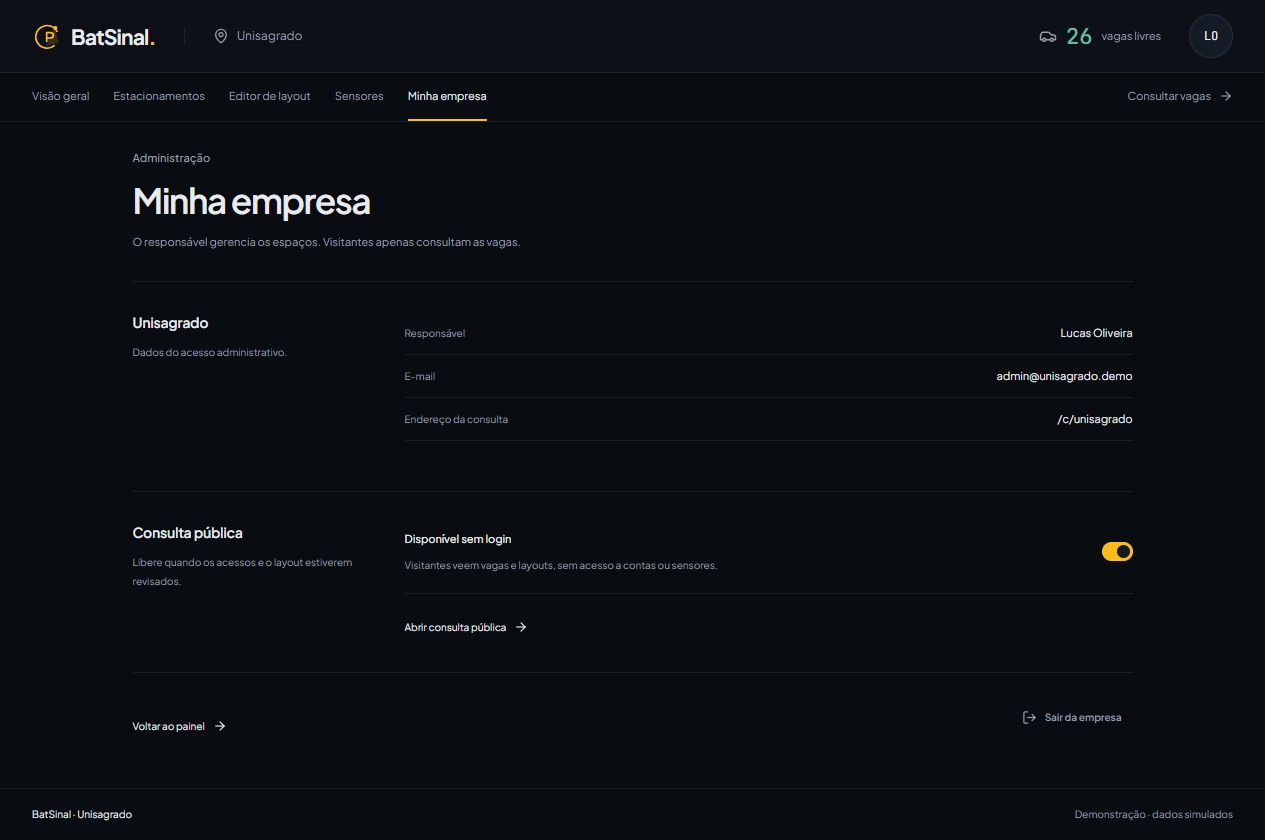
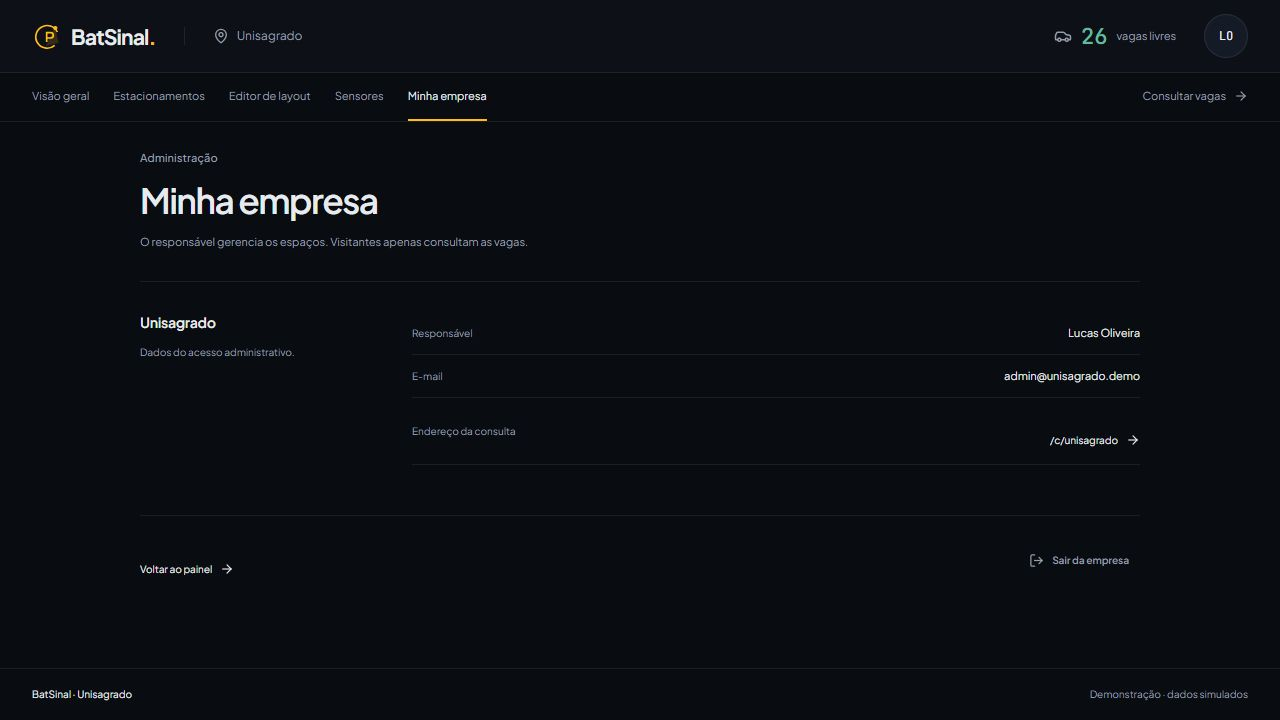
fix: manter consulta de vagas sempre publica

diff --git a/frontend/src/pages/empresa/CompanyPage.tsx b/frontend/src/pages/empresa/CompanyPage.tsx
@@ -1,39 +1,14 @@
-import { useState } from 'react';
 import { Link } from 'react-router-dom';
-import { useQueryClient } from '@tanstack/react-query';
 import { ArrowRight, LogOut } from 'lucide-react';
 import { useAuth } from '../../features/auth/AuthContext';
 import { useCompany } from '../../features/estacionamentos/queries';
-import { api, json } from '../../lib/api';
-import { mensagemErro } from '../../lib/utils';
-import { Button, ErrorState, Loading, Switch } from '../../components/ui';
-import { toast } from 'sonner';
-import type { Empresa } from '../../types';
+import { Button, ErrorState, Loading } from '../../components/ui';
 
 export function CompanyPage() {
   const { user, logout } = useAuth();
   const company = useCompany();
-  const client = useQueryClient();
-  const [saving, setSaving] = useState(false);
   if (company.isPending) return <Loading />;
   if (company.isError) return <ErrorState retry={() => void company.refetch()} />;
-  async function publish(value: boolean) {
-    setSaving(true);
-    try {
-      const result = await api<Empresa>('/empresa', {
-        method: 'PUT',
-        body: json({ publicado: value }),
-      });
-      client.setQueryData(['empresa', user?.empresaId], result);
-      await client.invalidateQueries({ queryKey: ['campi-publicos'] });
-      await client.invalidateQueries({ queryKey: ['estacionamentos'] });
-      toast.success(value ? 'Consulta pública liberada.' : 'Consulta pública fechada.');
-    } catch (error) {
-      toast.error(mensagemErro(error));
-    } finally {
-      setSaving(false);
-    }
-  }
   return (
     <div className="company-page">
       <div className="page-heading">
@@ -59,36 +34,13 @@ export function CompanyPage() {
           </div>
           <div>
             <dt>Endereço da consulta</dt>
-            <dd>/c/{company.data.slug}</dd>
+            <dd>
+              <Link className="text-link" to={`/c/${company.data.slug}`}>
+                /c/{company.data.slug} <ArrowRight size={14} />
+              </Link>
+            </dd>
           </div>
         </dl>
-      </section>
-      <section className="profile-section">
-        <div className="profile-section-heading">
-          <h2>Consulta pública</h2>
-          <p>Libere quando os acessos e o layout estiverem revisados.</p>
-        </div>
-        <div className="profile-section-body">
-          <div className="preference-row">
-            <div>
-              <strong>
-                {company.data.publicado ? 'Disponível sem login' : 'Consulta fechada'}
-              </strong>
-              <p>Visitantes veem vagas e layouts, sem acesso a contas ou sensores.</p>
-            </div>
-            <Switch
-              checked={company.data.publicado}
-              disabled={saving}
-              onCheckedChange={(value) => void publish(value)}
-              label="Publicar consulta de vagas"
-            />
-          </div>
-          {company.data.publicado && (
-            <Link className="text-link" to={`/c/${company.data.slug}`}>
-              Abrir consulta pública <ArrowRight size={14} />
-            </Link>
-          )}
-        </div>
       </section>
       <div className="profile-signout">
         <Link className="text-link" to="/admin">

diff --git a/frontend/src/test/api.test.ts b/frontend/src/test/api.test.ts
@@ -54,6 +54,7 @@ describe('fluxos HTTP da demonstração', () => {
     expect(cleared.caminhadaDestino).toBeUndefined();
   });
   it('permite consulta sem token e bloqueia escrita e administração', async () => {
+    Object.assign(store.empresas[0], { publicado: false });
     localStorage.removeItem(TOKEN_KEY);
     const lots = await api<EstacionamentoResumo[]>('/publico/campi/unisagrado/estacionamentos');
     expect(lots).toHaveLength(3);
@@ -86,7 +87,7 @@ describe('fluxos HTTP da demonstração', () => {
     expect(await api('/publico/campi')).toHaveLength(1);
     expect(localStorage.getItem(TOKEN_KEY)).toBe('token-antigo');
   });
-  it('empresa começa fechada, publica somente seus espaços e pode fechar novamente', async () => {
+  it('empresa nova já tem consulta aberta sem login, mantendo a gestão protegida', async () => {
     const session = await api<import('../types').Sessao>('/auth/cadastro-empresa', {
       method: 'POST',
       body: json({
@@ -98,21 +99,23 @@ describe('fluxos HTTP da demonstração', () => {
     });
     localStorage.setItem(TOKEN_KEY, session.token);
     const company = await api<import('../types').Empresa>('/empresa');
-    expect(company.publicado).toBe(false);
+    expect(company).not.toHaveProperty('publicado');
     expect(session.administrador).not.toHaveProperty('role');
     await api('/estacionamentos', { method: 'POST', body: json({ nome: 'Bolsão novo' }) });
-    await expect(api('/publico/campi/' + company.slug + '/estacionamentos')).rejects.toMatchObject({
-      details: { status: 404 },
+    localStorage.removeItem(TOKEN_KEY);
+    expect(await api('/publico/campi')).toContainEqual({
+      id: company.id,
+      nome: company.nome,
+      slug: company.slug,
     });
-    await api('/empresa', { method: 'PUT', body: json({ publicado: true }) });
     expect(await api('/publico/campi/' + company.slug + '/estacionamentos')).toHaveLength(1);
     await expect(
       api('/publico/campi/' + company.slug + '/estacionamentos/est-1'),
     ).rejects.toMatchObject({ details: { status: 404 } });
-    await api('/empresa', { method: 'PUT', body: json({ publicado: false }) });
-    await expect(api('/publico/campi/' + company.slug + '/estacionamentos')).rejects.toMatchObject({
-      details: { status: 404 },
-    });
+    await expect(api('/empresa')).rejects.toMatchObject({ details: { status: 401 } });
+    await expect(
+      api('/estacionamentos', { method: 'POST', body: json({ nome: 'Indevido' }) }),
+    ).rejects.toMatchObject({ details: { status: 401 } });
   });
   it('isola empresas nas consultas e nos IDs conhecidos', async () => {
     store.administradores.push({

diff --git a/frontend/src/mocks/handlers.ts b/frontend/src/mocks/handlers.ts
@@ -243,13 +243,10 @@ export const handlers = [
       if (resource === 'publico') {
         if (method !== 'GET') throw new MockError(405, 'Consulta pública permite somente leitura.');
         if (id !== 'campi') throw new MockError(404, 'Rota não encontrada.');
-        if (!action)
-          result = store.empresas
-            .filter((e) => e.publicado)
-            .map(({ id, nome, slug }) => ({ id, nome, slug }));
+        if (!action) result = store.empresas.map(({ id, nome, slug }) => ({ id, nome, slug }));
         else {
-          const empresa = store.empresas.find((e) => e.slug === action && e.publicado);
-          if (!empresa) throw new MockError(404, 'Campus não disponível para consulta.');
+          const empresa = store.empresas.find((e) => e.slug === action);
+          if (!empresa) throw new MockError(404, 'Campus não encontrado.');
           const [, , , collection, lotId, detail] = path;
           if (collection !== 'estacionamentos') throw new MockError(404, 'Rota não encontrada.');
           if (!lotId)
@@ -291,7 +288,7 @@ export const handlers = [
         const slug = store.empresas.some((e) => e.slug === baseSlug)
           ? baseSlug + '-' + idEmpresa.slice(0, 8)
           : baseSlug;
-        const empresa = { id: idEmpresa, nome: nomeEmpresa, slug, publicado: false };
+        const empresa = { id: idEmpresa, nome: nomeEmpresa, slug };
         const user = {
           id: crypto.randomUUID(),
           empresaId: empresa.id,
@@ -310,13 +307,8 @@ export const handlers = [
         if (resource === 'auth' && id === 'me' && method === 'GET') result = user;
         else if (resource === 'empresa' && !id) {
           const empresa = store.empresas.find((e) => e.id === user.empresaId)!;
-          if (method === 'GET') result = empresa;
-          else if (method === 'PUT') {
-            if (typeof body.publicado !== 'boolean')
-              throw new MockError(422, 'Informe se a consulta está publicada.');
-            empresa.publicado = body.publicado;
-            result = empresa;
-          }
+          if (method !== 'GET') throw new MockError(405, 'Método não permitido.');
+          result = empresa;
         } else if (resource === 'estacionamentos') {
           if (!id) {
             if (method === 'GET')

diff --git a/frontend/src/test/redesign.test.tsx b/frontend/src/test/redesign.test.tsx
@@ -129,7 +129,7 @@ describe('consulta e perfil redesenhados', () => {
     ).not.toBeInTheDocument();
     expect(localStorage.getItem(TOKEN_KEY)).toBeNull();
   });
-  it('permite ao responsável publicar e fechar a consulta de sua empresa', async () => {
+  it('mostra o endereço público da empresa sem controle de visibilidade', async () => {
     auth.user = {
       id: 'admin',
       empresaId: 'unisagrado',
@@ -138,17 +138,12 @@ describe('consulta e perfil redesenhados', () => {
     };
     store.sessoes['teste-ui'] = 'admin';
     localStorage.setItem(TOKEN_KEY, 'teste-ui');
-    const user = userEvent.setup();
     show(<CompanyPage />, '/empresa');
-    const toggle = await screen.findByRole('switch', { name: 'Publicar consulta de vagas' });
-    expect(toggle).toBeChecked();
-    await user.click(toggle);
-    await waitFor(() => expect(store.empresas[0].publicado).toBe(false));
-    expect(await screen.findByText('Consulta fechada')).toBeInTheDocument();
-    await user.click(toggle);
-    expect(await screen.findByRole('link', { name: 'Abrir consulta pública' })).toHaveAttribute(
+    expect(await screen.findByRole('link', { name: '/c/unisagrado' })).toHaveAttribute(
       'href',
       '/c/unisagrado',
     );
+    expect(screen.queryByRole('switch')).not.toBeInTheDocument();
+    expect(screen.queryByText('Consulta fechada')).not.toBeInTheDocument();
   });
 });

diff --git a/frontend/src/mocks/seed.ts b/frontend/src/mocks/seed.ts
@@ -130,8 +130,8 @@ export function createSeed(): MockStore {
   );
   return {
     navigationSchema: 1,
-    accessSchema: 2,
-    empresas: [{ id: 'unisagrado', nome: 'Unisagrado', slug: 'unisagrado', publicado: true }],
+    accessSchema: 3,
+    empresas: [{ id: 'unisagrado', nome: 'Unisagrado', slug: 'unisagrado' }],
     administradores: [
       {
         id: 'admin',
@@ -162,12 +162,11 @@ export function migrateStore(saved: LegacyStore): MockStore {
       .map(({ id, empresaId, nome, email, senha }) => ({ id, empresaId, nome, email, senha }));
   return {
     navigationSchema: saved.navigationSchema,
-    accessSchema: 2,
+    accessSchema: 3,
     empresas: saved.empresas.map((e) => ({
       id: e.id,
       nome: e.nome,
       slug: e.slug ?? (e.id === 'unisagrado' ? 'unisagrado' : 'campus-' + e.id),
-      publicado: e.publicado ?? e.id === 'unisagrado',
     })),
     administradores,
     estacionamentos: saved.estacionamentos,
@@ -197,7 +196,7 @@ function loadStore(): MockStore {
         });
         saved.navigationSchema = 1;
       }
-      if (legacy.accessSchema !== 2 || legacy.navigationSchema !== 1) {
+      if (legacy.accessSchema !== 3 || legacy.navigationSchema !== 1) {
         try {
           localStorage.setItem(STORAGE_KEY, JSON.stringify(saved));
         } catch {

diff --git a/frontend/src/test/migration.test.ts b/frontend/src/test/migration.test.ts
@@ -44,6 +44,7 @@ it('migra apenas administradores antigos e invalida sessões de visitantes', () 
   const { administradores, ...legacy } = seed;
   const migrated = migrateStore({
     ...legacy,
+    empresas: legacy.empresas.map((e) => ({ ...e, publicado: false })),
     usuarios: [
       { ...administradores[0], role: 'ADMIN' },
       { ...administradores[0], id: 'visitante', role: 'USER' },
@@ -53,5 +54,7 @@ it('migra apenas administradores antigos e invalida sessões de visitantes', () 
   expect(migrated.administradores.map((a) => a.id)).toEqual(['admin']);
   expect(migrated.administradores[0]).not.toHaveProperty('role');
   expect(migrated.sessoes).toEqual({ empresa: 'admin' });
+  expect(migrated.empresas[0]).not.toHaveProperty('publicado');
+  expect(migrated.accessSchema).toBe(3);
   expect(migrated.estacionamentos[0].vagas).toEqual(seed.estacionamentos[0].vagas);
 });

diff --git a/frontend/src/pages/estacionamentos/CampusEntry.tsx b/frontend/src/pages/estacionamentos/CampusEntry.tsx
@@ -25,8 +25,8 @@ export function CampusEntry() {
       </div>
       {!campi.data.length && (
         <EmptyState
-          title="Nenhum campus publicado"
-          description="A empresa precisa publicar a consulta para disponibilizar suas vagas."
+          title="Nenhum campus cadastrado"
+          description="Os campi aparecerão aqui quando as empresas se cadastrarem."
         />
       )}
       <Link className="text-link" to="/login">

diff --git a/frontend/src/components/layout/AppLayout.tsx b/frontend/src/components/layout/AppLayout.tsx
@@ -109,8 +109,8 @@ export function AppLayout() {
               {label}
             </NavLink>
           ))}
-          <Link to={company.data?.publicado ? `/c/${company.data.slug}` : '/empresa'}>
-            {company.data?.publicado ? 'Consultar vagas' : 'Publicar consulta'}
+          <Link to={company.data ? `/c/${company.data.slug}` : '/'}>
+            Consultar vagas
             <ArrowRight size={14} />
           </Link>
         </nav>

diff --git a/frontend/src/pages/estacionamentos/LotsPage.tsx b/frontend/src/pages/estacionamentos/LotsPage.tsx
@@ -20,7 +20,7 @@ export function LotsPage() {
     return (
       <EmptyState
         title="Campus não disponível"
-        description="A consulta está fechada ou o endereço não existe."
+        description="O endereço informado não corresponde a um campus cadastrado."
       >
         <Link className="btn btn-secondary" to="/">
           Escolher campus

diff --git a/frontend/src/types/index.ts b/frontend/src/types/index.ts
@@ -4,7 +4,6 @@ export interface Empresa {
   id: string;
   nome: string;
   slug: string;
-  publicado: boolean;
 }
 export type CampusPublico = Pick<Empresa, 'id' | 'nome' | 'slug'>;
 export interface Administrador {

diff --git a/docs/api-contract.md b/docs/api-contract.md
@@ -10,7 +10,7 @@ Cadastro cria empresa e responsável; a resposta não tem campo `role`.
 
 - GET/PUT/DELETE: 200; POST: 201; DELETE retorna `null`.
 - Erro: `{ "status": 422, "mensagem": "Confira os campos.", "campos": { "email": "E-mail inválido." } }`.
-- 401: sem sessão; 404: ausente, de outra empresa ou campus não publicado; 405: escrita em consulta pública;
+- 401: sem sessão; 404: recurso ausente ou de outra empresa; 405: método não permitido;
   409: conflito; 422: validação. Backend real também pode retornar 400 com o mesmo formato.
 - Rotas da empresa filtram pelo `empresaId` resolvido da sessão, nunca pelo corpo enviado pelo navegador.
 - Tipos completos: `frontend/src/types/index.ts`. `StatusVaga`: LIVRE, OCUPADA, SEM_SINAL.
@@ -19,14 +19,14 @@ Cadastro cria empresa e responsável; a resposta não tem campo `role`.
 
 | Método / rota | Resposta |
 | --- | --- |
-| GET `/publico/campi` | `{ id, nome, slug }[]` somente de empresas publicadas |
+| GET `/publico/campi` | `{ id, nome, slug }[]` de todos os campi cadastrados |
 | GET `/publico/campi/{slug}/estacionamentos` | `EstacionamentoResumo[]` sem layouts internos ou sensores |
 | GET `/publico/campi/{slug}/estacionamentos/{id}` | Layout de consulta, sem `sensorId` nas vagas |
 | GET `/publico/campi/{slug}/estacionamentos/{id}/status` | `{ vagaId, status, atualizadoEm }[]` |
 
 Essas rotas nunca retornam e-mails de responsáveis, senhas, hashes, IDs ou chaves dos sensores.
-O ID do bolsão deve pertencer ao campus indicado. Campus fechado devolve 404, inclusive para
-quem conhece o ID. Escritas em `/publico/*` devolvem 405. Analytics e sensores não são públicos.
+O ID do bolsão deve pertencer ao campus indicado. A consulta é sempre aberta, sem aprovação ou
+controle de visibilidade. Escritas em `/publico/*` devolvem 405. Analytics e sensores não são públicos.
 
 ## Empresa e autenticação
 
@@ -35,12 +35,11 @@ quem conhece o ID. Escritas em `/publico/*` devolvem 405. Analytics e sensores n
 | POST `/auth/cadastro-empresa` | Público | `{ nomeEmpresa, nome, email, senha }` | `{ token, administrador }` |
 | POST `/auth/login` | Público | `{ email, senha }` | `{ token, administrador }` |
 | GET `/auth/me` | Responsável | — | `{ id, empresaId, nome, email }` |
-| GET `/empresa` | Responsável | — | `{ id, nome, slug, publicado }` |
-| PUT `/empresa` | Responsável | `{ publicado: boolean }` | Empresa atualizada |
+| GET `/empresa` | Responsável | — | `{ id, nome, slug }` |
 
 Senha demonstrativa exige 8 caracteres, minúscula, maiúscula e número. E-mail é único.
-Slug é criado a partir do nome, com sufixo se já existir. Empresa nova inicia com `publicado: false`.
-O seed Unisagrado é publicado. Sessões mock usam tokens opacos e senhas fictícias; segurança real
+Slug é criado a partir do nome, com sufixo se já existir. Empresa nova já pode ser consultada sem login.
+Não existe campo `publicado` nem endpoint para fechar a consulta. Sessões mock usam tokens opacos e senhas fictícias; segurança real
 está no [planejamento do backend](ARQUITETURA_BACKEND.md).
 
 Não existem cadastro/login de visitante, roles USER/ADMIN, CRUD de usuários ou favoritos no contrato atual.
@@ -91,7 +90,7 @@ Ocupação significa indisponibilidade: (total − livres)/total; inclui sem sin
 ## Planejado para a API real — ainda não implementado no mock
 
 - GET/PUT `/empresa/mapa`: mapa GeoJSON, PUT com `{ versao, geojson }`; conflito de versão: 409.
-- GET `/publico/campi/{slug}/mapa`: GeoJSON do campus publicado, sem dados internos.
+- GET `/publico/campi/{slug}/mapa`: GeoJSON do campus cadastrado, sem dados internos.
 - PUT `/dispositivo/vagas/{id}/status`: chave do sensor vinculado em `X-Device-Key`;
   `{ status: "LIVRE" | "OCUPADA" }`; hora de recebimento definida pelo servidor.
 - Controle `layoutVersao` ao salvar o layout na API real.

diff --git a/README.md b/README.md
@@ -16,18 +16,18 @@ O mock funciona sem backend, chave ou `.env`. Fontes são empacotadas, sem CDN.
 
 ## Visitantes e empresas
 
-- Alunos/professores consultam **sem cadastro e sem login**. A entrada abre o único campus publicado
+- Alunos/professores consultam **sem cadastro e sem login**. A entrada abre o único campus cadastrado
   ou mostra uma escolha de campi. Exemplo: `/c/unisagrado`.
 - Somente empresas se cadastram em `/cadastro`: nome da empresa, responsável, e-mail e senha.
   O responsável entra em `/login` e administra seus estacionamentos, layouts e sensores.
 - Cada empresa tem um responsável no MVP. Não existem roles USER/ADMIN, cadastro de motorista,
   gerenciamento de usuários, veículos ou favoritos.
-- Empresa nova começa com consulta fechada. Revise os dados e publique em **Minha empresa**.
-  Fechar a consulta bloqueia o endereço público e preserva os cadastros.
+- A consulta de todos os campi é sempre pública, desde o cadastro da empresa. Não há controle de visibilidade.
+  Login é exigido apenas para acessar e alterar dados administrativos.
 
 Conta fictícia para administrar o seed: **admin@unisagrado.demo / Demo@123**.
 O botão de demonstração preenche os campos; clique em **Entrar**. Nunca use senhas ou dados pessoais reais no mock.
-O seed Unisagrado já é publicado, apenas para a demonstração.
+O seed Unisagrado contém dados apenas demonstrativos.
 
 ## Simulador
 
@@ -49,11 +49,11 @@ O mock repete leituras a cada 10 s; as telas consultam status a cada 3 s. Sem le
 2. Entre como empresa e explore painel, sensores e **Minha empresa**.
 3. Cadastre estacionamento com nome, posição e dimensões. Portão e caminhada são opcionais.
 4. Abra o editor, gere um grid e configure vagas/sensores. Salve o layout.
-5. Publique a consulta e abra seu endereço em outra aba. Uma empresa nova não enxerga os dados do seed.
+5. Abra o endereço da consulta em outra aba, sem login. A gestão de uma empresa nova não acessa os dados do seed.
 6. Use o simulador na aba administrativa e observe os contadores/cores na consulta pública.
 7. No detalhe de um bolsão lotado, ative **Avisar quando abrir vaga** e libere uma vaga. O aviso exige a página aberta.
 8. Teste busca, tipo de vaga, seleção de setor, planta e lista de vagas por teclado.
-9. Feche a consulta em **Minha empresa** e confira que o endereço público passa a negar acesso.
+9. Saia da conta: a consulta permanece disponível e as rotas administrativas passam a exigir login.
 
 Editor: Ctrl+Z desfaz, Ctrl+Shift+Z refaz, Ctrl+D duplica e Delete exclui. Setas movem 1 unidade;
 Shift+setas, 10. Existem controles HTML equivalentes. Alterações pendentes têm aviso de saída.
@@ -96,7 +96,7 @@ npm run preview
 ```
 
 `lint` inclui ESLint sem warnings e Prettier. Formatação: `npm run format`.
-Última suíte: **34 testes em sete arquivos**. Cobertura de consulta anônima, cadastro, publicação,
+Última suíte: **34 testes em sete arquivos**. Cobertura de consulta anônima, cadastro e acesso público imediato,
 isolamento, proteção administrativa, DTO público, migração, seleção, teclado, acesso, sensores e geometria.
 O worker MSW já está versionado; ao atualizar a dependência, regenere com `npx msw init frontend/public`.
 
